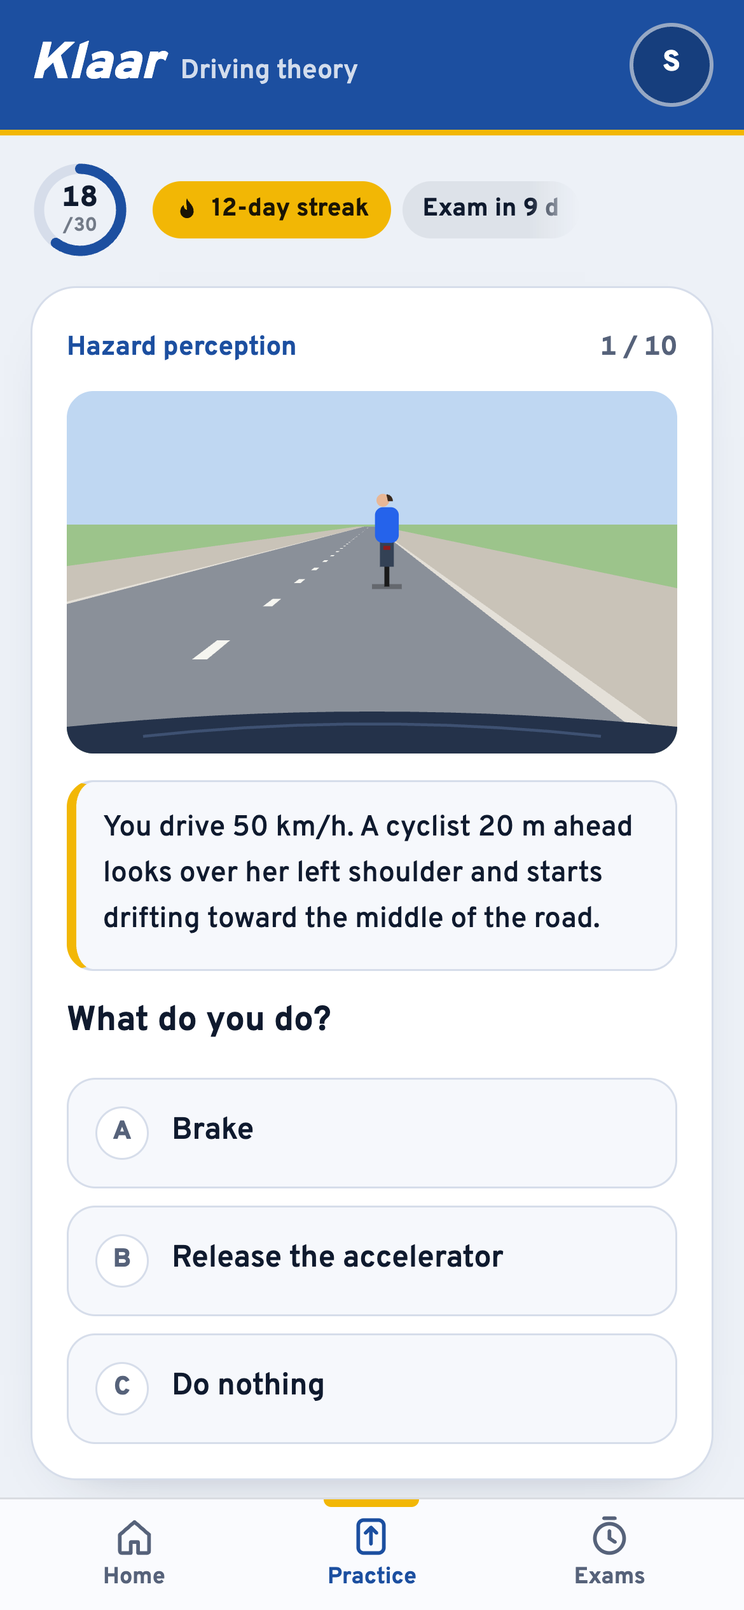
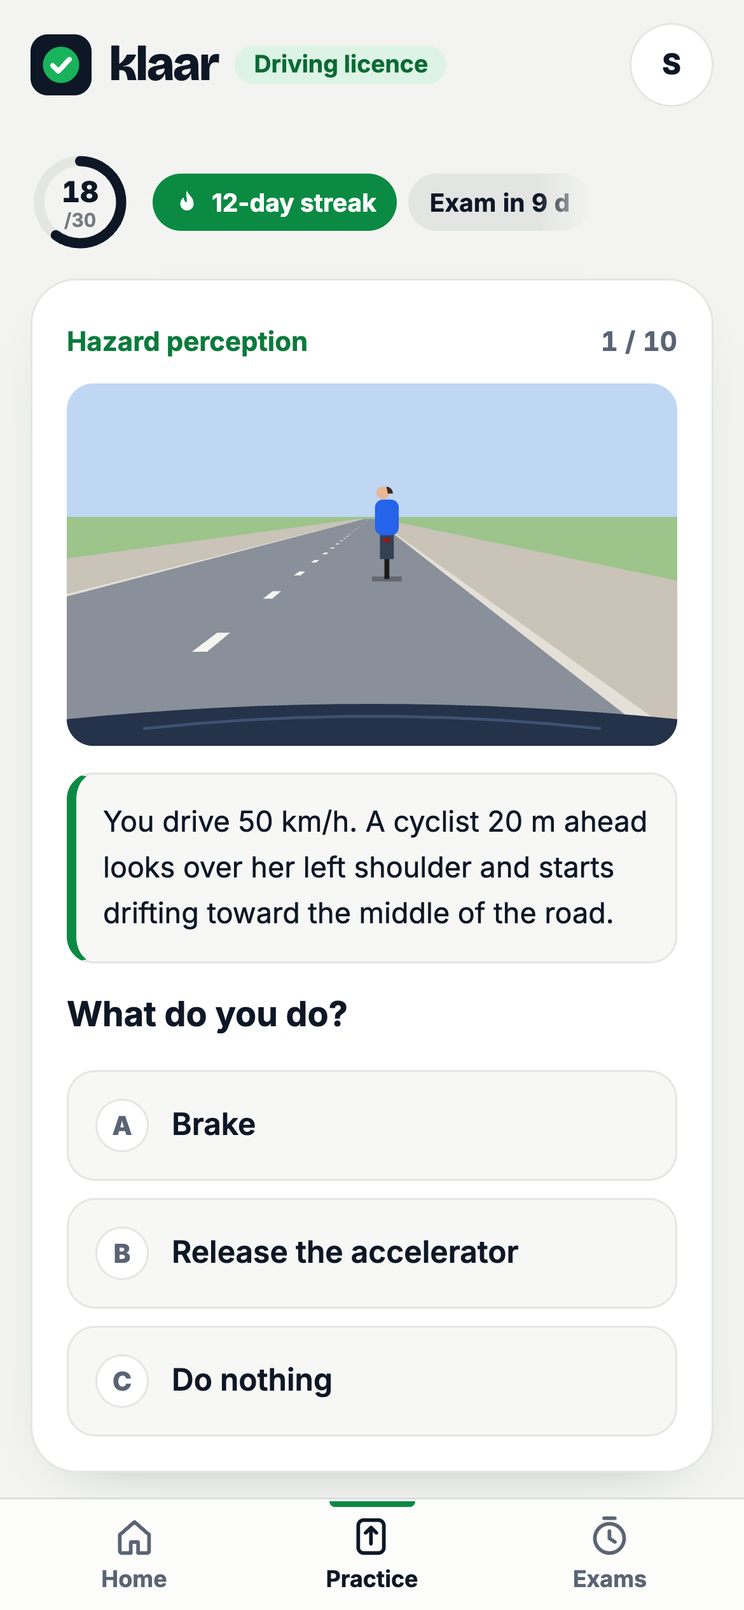
Website and marketing kit show the new Green light app
- New screenshots of the rebuilt app: driving Home, topic grid, question and explanation, hazard, mock exams, licence plan, inburgering Home, exam stamps, official route
- Landing page: real Home in the hero, new "Your road to a licence" section, inburgering FAQ describes the countdown and stamps
- make_assets.js follows the new screens, blocks the news card and always shows a wrong answer for the explanation shot
- Social pictures rebuilt with the new screens; messaging.md describes the licence plan and inburgering screens

diff --git a/welcome/index.html b/welcome/index.html
@@ -23,7 +23,7 @@
 *{box-sizing:border-box}
 body{margin:0;background:var(--ground);color:var(--fg);font:17px/1.55 'Inter',system-ui,-apple-system,'Segoe UI',Roboto,sans-serif;-webkit-font-smoothing:antialiased}
 a{color:inherit}
-h1,h2,.wm,.stat b,.ring-num,.ring-days b{font-family:'Bricolage Grotesque','Inter',system-ui,sans-serif}
+h1,h2,.wm,.stat b{font-family:'Bricolage Grotesque','Inter',system-ui,sans-serif}
 .wrap{max-width:1040px;margin:0 auto;padding:0 20px}
 header{background:var(--ink);color:#fff}
 .bar{display:flex;justify-content:space-between;align-items:center;padding:16px 0;gap:12px}
@@ -31,7 +31,7 @@ header{background:var(--ink);color:#fff}
 .brand svg{flex:none}
 .wm{font-weight:800;font-size:30px;letter-spacing:-.03em;line-height:1}
 .bar a.go{font-weight:700;font-size:15px;text-decoration:none;border:1.5px solid rgba(255,255,255,.4);padding:9px 16px;border-radius:999px;white-space:nowrap}
-.hero{display:grid;grid-template-columns:1.15fr .85fr;gap:40px;align-items:center;padding:52px 0 64px}
+.hero{display:grid;grid-template-columns:1.15fr .85fr;gap:40px;align-items:center;padding:52px 0 0}
 .chip{display:inline-flex;align-items:center;gap:8px;font-size:14.5px;font-weight:700;background:rgba(25,179,92,.16);color:#9BE3B8;padding:6px 13px 6px 10px;border-radius:999px;margin:0 0 18px}
 .chip i{width:10px;height:10px;border-radius:50%;background:var(--green);box-shadow:0 0 0 4px rgba(25,179,92,.25)}
 h1{font-size:clamp(40px,6.4vw,66px);line-height:1.02;letter-spacing:-.035em;font-weight:800;margin:0 0 20px;text-wrap:balance}
@@ -39,20 +39,8 @@ h1 em{font-style:normal;color:var(--green)}
 .lead{font-size:19px;color:rgba(255,255,255,.82);max-width:32em;margin:0 0 28px}
 .cta{display:inline-block;background:var(--go);color:#fff;font-weight:700;font-size:19px;text-decoration:none;padding:16px 32px;border-radius:16px;box-shadow:0 10px 24px rgba(4,40,20,.28)}
 .small{font-size:14.5px;color:rgba(255,255,255,.7);margin:14px 0 0}
-.ringcard{background:#fff;color:#0E1726;border-radius:28px;padding:24px;max-width:340px;width:100%;margin:0 auto;box-shadow:0 30px 60px rgba(0,0,0,.35)}
-.ringrow{display:flex;align-items:center;gap:20px}
-.ring{position:relative;width:132px;height:132px;flex:none}
-.ring svg{transform:rotate(-90deg);display:block}
-.ring .arc{transition:stroke .5s,stroke-dashoffset 1s cubic-bezier(.2,.9,.25,1)}
-.ring-in{position:absolute;inset:0;display:flex;flex-direction:column;align-items:center;justify-content:center}
-.ring-num{font-weight:800;font-size:36px;letter-spacing:-.03em;line-height:1;font-variant-numeric:tabular-nums}
-.ring-num small{font-size:19px}
-.ring-in .lbl{font-size:12.5px;font-weight:600;color:#5B6474;margin-top:2px}
-.pill{display:inline-block;font-size:13px;font-weight:700;padding:5px 11px;border-radius:99px;transition:background .5s,color .5s}
-.ring-days b{display:block;font-weight:800;font-size:34px;letter-spacing:-.03em;line-height:1;margin-top:10px}
-.ring-days span{display:block;font-size:13.5px;line-height:1.35;font-weight:600;color:#5B6474;margin-top:4px}
-.ringcap{font-size:14px;color:#33404F;border-top:1px solid #E3E6E1;margin:18px 0 0;padding:14px 0 0}
-.stats{display:grid;grid-template-columns:repeat(3,1fr);gap:14px;margin:48px 0 0}
+.hero .phone{margin:0 auto -90px;height:auto;border-color:#1E2A3C;box-shadow:0 30px 60px rgba(0,0,0,.35)}
+.stats{display:grid;grid-template-columns:repeat(3,1fr);gap:14px;margin:130px 0 0}
 .stat{background:var(--card);border:1px solid var(--line);border-radius:22px;padding:20px}
 .stat b{display:block;font-size:38px;font-weight:800;letter-spacing:-.03em;line-height:1.1}
 .stat span{color:var(--muted);font-size:15px}
@@ -61,6 +49,7 @@ section{padding:72px 0 0}
 .feat{display:grid;grid-template-columns:1fr 1fr;gap:48px;align-items:center}
 .feat.flip .txt{order:2}
 .feat p{color:var(--fg2);margin:0 0 12px;max-width:30em}
+.feat p.note{font-size:14.5px;color:var(--muted)}
 .phone{width:min(300px,78vw);border:9px solid var(--fg);border-radius:42px;overflow:hidden;background:var(--fg);box-shadow:0 20px 44px rgba(5,12,30,.18);margin:0 auto;line-height:0;height:520px}
 .phone img{width:100%;height:auto;display:block}
 .phone img.low{height:100%;object-fit:cover;object-position:bottom}
@@ -80,16 +69,13 @@ details p{color:var(--fg2);margin:10px 0 0}
 .end p{color:rgba(255,255,255,.75);margin:0 0 26px}
 footer{color:var(--muted);font-size:14px;padding:36px 20px 48px;text-align:center}
 @media (max-width:760px){
-  .hero{grid-template-columns:1fr;padding:32px 0 48px;gap:36px}
+  .hero{grid-template-columns:1fr;padding:32px 0 0;gap:36px}
   .stats,.steps{grid-template-columns:1fr}
-  .stats{margin-top:32px}
   .feat{grid-template-columns:1fr;gap:28px}.feat.flip .txt{order:0}
   .phone{height:440px}
   section{padding-top:56px}
   .wm{font-size:27px}
 }
-@media (max-width:360px){.ringrow{flex-direction:column;align-items:flex-start}}
-@media (prefers-reduced-motion:reduce){.ring .arc,.pill{transition:none}}
 </style>
 </head>
 <body>
@@ -107,22 +93,7 @@ footer{color:var(--muted);font-size:14px;padding:36px 20px 48px;text-align:cente
         <a class="cta" href="../">Start practising</a>
         <p class="small">Free. No account. Works offline once it is on your phone.</p>
       </div>
-      <div class="ringcard" aria-label="Example: a readiness ring that goes from red to amber to green">
-        <div class="ringrow">
-          <div class="ring">
-            <svg width="132" height="132" viewBox="0 0 140 140" aria-hidden="true">
-              <circle cx="70" cy="70" r="58" fill="#fff" stroke="#EDEFEB" stroke-width="14"/>
-              <circle class="arc" id="arc" cx="70" cy="70" r="58" fill="none" stroke="#19B35C" stroke-width="14" stroke-linecap="round" stroke-dasharray="364.4" stroke-dashoffset="32.8"/>
-            </svg>
-            <div class="ring-in"><span class="ring-num"><span id="pct">91</span><small>%</small></span><span class="lbl">ready</span></div>
-          </div>
-          <div>
-            <span class="pill" id="pill" style="background:#DDF3E5;color:#0A6B34">Klaar</span>
-            <div class="ring-days"><b id="days">9</b><span>days to your theory exam</span></div>
-          </div>
-        </div>
-        <p class="ringcap">Red means not yet. Amber means getting close. Green means you are ready for the exam.</p>
-      </div>
+      <div class="phone"><img src="img/1-plan.jpg" width="600" height="1298" alt="Klaar Home: 78% ready on a ring that is amber, 9 days to the theory exam, the route to a licence and the one thing to do next"></div>
     </div>
   </div>
 </header>
@@ -137,13 +108,23 @@ footer{color:var(--muted);font-size:14px;padding:36px 20px 48px;text-align:cente
   <section class="feat">
     <div class="txt">
       <h2>A plan, not a pile of questions</h2>
-      <p>Set your exam date. Klaar shows how ready you are, how many questions a day gets you there, and the one thing to do next.</p>
-      <p>Your weakest topics come first. Questions you get wrong come back until you get them right.</p>
+      <p>Set your exam date. Klaar shows how ready you are on a ring that goes from red to amber to green, and the one thing to do next.</p>
+      <p>All 16 topics sit in one colour grid, weakest first. Tap one to practise it or read its lesson. Questions you get wrong come back until you get them right.</p>
     </div>
-    <div class="phone"><img src="img/2-topics.jpg" width="600" height="1298" loading="lazy" alt="Your topics, weakest first, with a lesson for each"></div>
+    <div class="phone"><img src="img/2-topics.jpg" width="600" height="1298" loading="lazy" alt="Topics in a colour grid, with the Priority card open: 70% right, practise 10 questions"></div>
   </section>
 
   <section class="feat flip">
+    <div class="txt">
+      <h2>Your road to a licence</h2>
+      <p>Pick when you want your licence. Klaar tells you honestly if that is realistic, and puts a date on every step: theory exam, lessons, practical exam, licence.</p>
+      <p>Already have a licence from another country? Klaar first tells you if you can usually swap it instead.</p>
+      <p class="note">Klaar is an independent practice app. You book your exams and apply on mijn.cbr.nl, cbr.nl and rdw.nl, and Klaar links you there.</p>
+    </div>
+    <div class="phone"><img src="img/7-licence-plan.jpg" width="600" height="1298" loading="lazy" alt="Your licence plan: within 6 months is realistic, with dates for the theory exam, lessons, practical exam and licence"></div>
+  </section>
+
+  <section class="feat">
     <div class="txt">
       <h2>See the situation</h2>
       <p>Who goes first at this junction? Klaar draws it from above: your car, the other road users, and where each one is going.</p>
@@ -152,7 +133,7 @@ footer{color:var(--muted);font-size:14px;padding:36px 20px 48px;text-align:cente
     <div class="phone"><img src="img/3-question.jpg" width="600" height="1298" loading="lazy" alt="A priority question with a junction drawn from above"></div>
   </section>
 
-  <section class="feat">
+  <section class="feat flip">
     <div class="txt">
       <h2>Know the rule and the reason</h2>
       <p>Every answer comes with a short explanation. Most link to the exact page of the government's English traffic rules booklet on government.nl, so you can check it yourself.</p>
@@ -161,7 +142,7 @@ footer{color:var(--muted);font-size:14px;padding:36px 20px 48px;text-align:cente
     <div class="phone"><img class="low" src="img/4-explained.jpg" width="600" height="1298" loading="lazy" alt="A wrong answer with the right one, the rule and a link to the source"></div>
   </section>
 
-  <section class="feat flip">
+  <section class="feat">
     <div class="txt">
       <h2>Mock exams in the real format</h2>
       <p>50 questions, 30 minutes, 44 right to pass, and no feedback until you hand in. The same format as the CBR theory exam.</p>
@@ -185,7 +166,7 @@ footer{color:var(--muted);font-size:14px;padding:36px 20px 48px;text-align:cente
     <details><summary>What does it cost?</summary><p>It is free right now. You do not need an account or a card.</p></details>
     <details><summary>Can I take the real theory exam in English?</summary><p>Yes. The CBR offers the car theory exam in English. Check cbr.nl for the current price and how to book.</p></details>
     <details><summary>Is Klaar enough to pass?</summary><p>Practise until you pass the full mock exam three times in a row. We also suggest the CBR's own practice material on cbr.nl before the real exam. No app can promise you a pass.</p></details>
-    <details><summary>I also need to do my inburgering. Can Klaar help?</summary><p>Yes, as an add-on. Once you have started on driving, you can add practice for the KNM and Dutch A2 exams from Home or your profile. You still book and apply on the government's own sites.</p></details>
+    <details><summary>I also need to do my inburgering. Can Klaar help?</summary><p>Yes, as an add-on. Add it from Home or your profile and you get practice for the KNM and Dutch A2 exams, a countdown to when you can apply to stay or become Dutch, and a stamp for each exam you pass. You still book exams and apply on inburgeren.nl and ind.nl.</p></details>
     <details><summary>Where is my progress stored?</summary><p>On your phone only. Nothing personal is sent anywhere. You can save a backup file from your profile.</p></details>
     <details><summary>Does it work on iPhone and Android?</summary><p>Yes, on both, in any modern browser.</p></details>
   </section>
@@ -199,24 +180,5 @@ footer{color:var(--muted);font-size:14px;padding:36px 20px 48px;text-align:cente
 </main>
 
 <footer class="wrap">Klaar is an independent practice app. It is not affiliated with the CBR. Practice questions are original and not exam material. <a href="../privacy/">Privacy</a></footer>
-<script>
-(function(){
-  if (!window.matchMedia || matchMedia('(prefers-reduced-motion: reduce)').matches) return;
-  var steps = [
-    {p:38, c:'#E5533D', t:'Not yet', bg:'#FCE3DE', fg:'#9F2A17', d:41},
-    {p:76, c:'#F2A51A', t:'Getting close', bg:'#FDF0D3', fg:'#7A4E00', d:23},
-    {p:91, c:'#19B35C', t:'Klaar', bg:'#DDF3E5', fg:'#0A6B34', d:9}
-  ];
-  var arc = document.getElementById('arc'), pct = document.getElementById('pct'), pill = document.getElementById('pill'), days = document.getElementById('days');
-  function show(s){
-    arc.setAttribute('stroke', s.c); arc.style.strokeDashoffset = (364.4 * (1 - s.p / 100)).toFixed(1);
-    pct.textContent = s.p; pill.textContent = s.t; pill.style.background = s.bg; pill.style.color = s.fg; days.textContent = s.d;
-  }
-  arc.style.transition = pill.style.transition = 'none'; show(steps[0]); arc.getBoundingClientRect();
-  arc.style.transition = pill.style.transition = '';
-  setTimeout(function(){ show(steps[1]); }, 1300);
-  setTimeout(function(){ show(steps[2]); }, 2700);
-})();
-</script>
 </body>
 </html>

diff --git a/marketing/make_assets.js b/marketing/make_assets.js
@@ -44,28 +44,65 @@ function seed(){
   localStorage.setItem("klaarInstallSeen", "1"); localStorage.setItem("klaarInstallHint", "no"); localStorage.setItem("klaarStats", "off");
 }
 
+/* The same learner, also doing inburgering: moved here a little over 2 years ago for work, wants to become Dutch. */
+function seedCivic(){
+  var S = JSON.parse(localStorage.getItem("klaarStateV1")), day = 86400000, now = Date.now();
+  function pad(n){ return (n < 10 ? "0" : "") + n; }
+  var a = new Date(now - 800 * day); S.arrived = a.getFullYear() + "-" + pad(a.getMonth() + 1) + "-" + pad(a.getDate());
+  S.track = "civic"; S.prof.goals = ["civic"]; S.prof.civ = {why:"work", goal:"citizen"};
+  var tr = S.t.civic; tr.topics = {"KNM":{a:64, ok:52}, "A2 Lezen":{a:40, ok:33}, "A2 Luisteren":{a:24, ok:15}};
+  tr.ans = 128; tr.ok = 100; tr.xp = 980;
+  tr.mocks = {"knm":[{s:36, n:40, p:true, at:now - 20 * day}], "a2-lezen":[{s:22, n:25, p:true, at:now - 3 * day}], "a2-luisteren":[{s:15, n:25, p:false, at:now - day}]};
+  S.plan = Object.assign({}, S.plan, {"c-knm":true});
+  localStorage.setItem("klaarStateV1", JSON.stringify(S));
+}
+
 async function appShots(browser){
   const ctx = await browser.newContext({ viewport: {width:390, height:844}, deviceScaleFactor: 3, isMobile: true, hasTouch: true, userAgent: UA, colorScheme: 'light', serviceWorkers: 'block' });
+  /* home-screen layout, and no news card (news.json changes; the pictures should not) */
   await ctx.addInitScript(() => { Object.defineProperty(navigator, 'standalone', {get: () => true}); });
+  await ctx.route('**/news.json*', r => r.fulfill({ status: 200, contentType: 'application/json', body: '{"items":[]}' }));
   const page = await ctx.newPage();
   await page.goto(BASE); await page.waitForTimeout(500);
-  await page.evaluate(seed); await page.reload(); await page.waitForTimeout(900);
+  await page.evaluate(seed); await page.evaluate(() => { var S = JSON.parse(localStorage.getItem("klaarStateV1")); S.prof.lic = {from:"none", by:6, at:Date.now() - 12 * 86400000}; S.onboarded = true; localStorage.setItem("klaarStateV1", JSON.stringify(S)); });
+  await page.reload(); await page.waitForTimeout(2500);
   const shot = async name => { await page.screenshot({ path: path.join(DIRS.shots, name + '.png') }); console.log('screenshot', name); };
   const scrollMain = y => page.evaluate(y => { document.querySelector('main').scrollTop = y; }, y);
+  const home = async () => { await page.keyboard.press('Escape'); await page.waitForTimeout(400); await page.click('.tab[data-view="home"]'); await page.waitForTimeout(500); await scrollMain(0); };
 
-  await page.click('.tab[data-view="home"]'); await page.waitForTimeout(700); await shot('1-plan');
-  await scrollMain(700); await page.waitForTimeout(300); await shot('2-topics');
+  await home(); await page.waitForTimeout(2200); await shot('1-plan');
+  await page.evaluate(() => { var g = document.querySelector('#v-home .tile'), m = document.querySelector('main'); if (g) m.scrollTop += g.getBoundingClientRect().top - 300; });
+  await page.waitForTimeout(400);
+  const tile = await page.$('#v-home [data-tile="Priority"]'); if (tile){ await tile.click(); await page.waitForTimeout(900); }
+  await shot('2-topics');
 
-  /* a question with a picture: open the Priority topic from Home */
-  await scrollMain(0);
-  const openTopic = async name => { await page.click('.tab[data-view="home"]'); await page.waitForTimeout(400);
-    await page.click('#v-home [data-topic="' + name + '"]');
-    await page.waitForTimeout(1200); };
-  await openTopic('Priority'); await scrollMain(0); await shot('3-question');
-  const opt = await page.$('#v-feed .opt'); if (opt){ await opt.click(); await page.waitForTimeout(1100); await page.evaluate(() => { var v = document.querySelector('#v-feed .verdict'), m = document.querySelector('main'); if (v) m.scrollTop += v.getBoundingClientRect().top - 150; }); await page.waitForTimeout(400); await shot('4-explained'); }
-  await openTopic('Hazard perception'); await scrollMain(0); await shot('5-hazard');
+  /* a question with a picture: Priority from its tile */
+  const openTopic = async name => { await home(); await page.click('#v-home [data-tile="' + name + '"]'); await page.waitForTimeout(700);
+    await page.click('[data-act="tsh-go"]'); await page.waitForTimeout(1300); await scrollMain(0); };
+  await openTopic('Priority'); await shot('3-question');
+  /* a wrong answer, so the picture shows the right one and the rule. Options are shuffled: try until one is wrong. */
+  for (let i = 0; i < 8; i++){
+    const opts = await page.$$('#v-feed .opt'); if (!opts.length) break;
+    await opts[opts.length - 1].click(); await page.waitForTimeout(1100);
+    if (await page.$('#v-feed .verdict.no')) break;
+    await page.click('#v-feed [data-act="next"]'); await page.waitForTimeout(1300); await scrollMain(0);
+  }
+  if (await page.$('#v-feed .verdict')){ await page.evaluate(() => { var v = document.querySelector('#v-feed .verdict'), m = document.querySelector('main'); if (v) m.scrollTop += v.getBoundingClientRect().top - 150; }); await page.waitForTimeout(400); await shot('4-explained'); }
+  await openTopic('Hazard perception'); await shot('5-hazard');
 
   await page.click('.tab[data-view="exams"]'); await page.waitForTimeout(700); await shot('6-mock-exams');
+
+  await home(); await page.click('#v-home [data-act="your-plan"]'); await page.waitForTimeout(800);
+  await page.evaluate(() => { var r = document.querySelector('.lp-card:nth-of-type(2)'), m = document.querySelector('main'); if (r) m.scrollTop += r.getBoundingClientRect().top - 110; });
+  await page.waitForTimeout(400); await shot('7-licence-plan');
+
+  await page.evaluate(seedCivic); await page.reload(); await page.waitForTimeout(2500);
+  await home(); await page.waitForTimeout(1500);
+  await page.evaluate(() => { var h = document.querySelector('#v-home .cv-hero'), m = document.querySelector('main'); if (h) m.scrollTop += h.getBoundingClientRect().top - 110; });
+  await page.waitForTimeout(400); await shot('8-inburgering');
+  await page.evaluate(() => { var h = document.querySelector('#v-home .stamps'), m = document.querySelector('main'); if (h) m.scrollTop += h.getBoundingClientRect().top - 200; });
+  await page.waitForTimeout(400); await shot('8b-stamps'); await scrollMain(0);
+  await page.click('#v-home [data-act="civic-route"]'); await page.waitForTimeout(800); await shot('9-route');
   await ctx.close();
 }
 
@@ -121,7 +158,7 @@ function carousel(){
     slide('ink', `${top(1, N)}<h1>Pass the Dutch driving theory exam. <em>In English.</em></h1><p>Made for expats and international students. Klaar turns green when you are ready.</p>${rings()}`),
     slide('ground', `${top(2, N)}<h1>A plan that counts back from <em>your exam date.</em></h1><p>It tells you how ready you are and what to do today.</p><div class="phone" style="top:640px"><img src="${b64('1-plan')}"></div>`),
     slide('ink', `${top(3, N)}<h1>See the situation, <em>not a wall of text.</em></h1><p>Junctions, lanes and roundabouts drawn from above, with who goes where.</p><div class="phone" style="top:640px"><img src="${b64('3-question')}"></div>`),
-    slide('ground', `${top(4, N)}<h1>Wrong answer? You get <em>the rule and the reason.</em></h1><p>Most answers link to the page in the government's English rulebook.</p><div class="phone" style="top:640px"><img src="${b64('4-explained')}" style="margin-top:-540px"></div>`),
+    slide('ground', `${top(4, N)}<h1>Wrong answer? You get <em>the rule and the reason.</em></h1><p>Most answers link to the page in the government's English rulebook.</p><div class="phone" style="top:640px"><img src="${b64('4-explained')}" style="margin-top:-400px"></div>`),
     slide('ink', `${top(5, N)}<h1>Mock exams in <em>the real CBR format.</em></h1><p>50 questions, 30 minutes, 44 to pass. No feedback until you hand in.</p><div class="phone" style="top:660px"><img src="${b64('6-mock-exams')}"></div>`),
     slide('ink', `${top(6, N)}<div style="display:flex;gap:56px;align-items:center;margin-top:84px"><div style="flex:none">${light(380)}</div><h1 style="font-size:100px;margin:0">When the light is green, you are <em>klaar.</em></h1></div><div class="list" style="margin-top:72px;gap:30px"><div><b>1</b>Open the link on your phone</div><div><b>2</b>Tell it your exam date</div><div><b>3</b>Practise until your light is green</div></div><div class="pill" style="margin-top:64px">${SITE}</div><div class="fine">Free, no account, works offline. Original practice questions, not CBR exam material.</div>`)
   ];
@@ -147,7 +184,7 @@ async function webCopies(browser){
   /* small JPGs for the landing page, 2x a 300px-wide phone */
   const ctx = await browser.newContext({ viewport: {width:600, height:1298}, deviceScaleFactor: 1 });
   const page = await ctx.newPage();
-  for (const f of ['1-plan', '2-topics', '3-question', '4-explained', '6-mock-exams']){
+  for (const f of ['1-plan', '2-topics', '3-question', '4-explained', '6-mock-exams', '7-licence-plan']){
     await page.setContent(`<body style="margin:0"><img src="${b64(f)}" style="display:block;width:600px">`); await page.waitForTimeout(150);
     await page.screenshot({ path: path.join(DIRS.web, f + '.jpg'), type: 'jpeg', quality: 82 });
   }

diff --git a/sw.js b/sw.js
@@ -1,5 +1,5 @@
 // Klaar offline cache. release.py stamps VERSION; a new VERSION makes phones download everything fresh.
-const VERSION = "01bb55b882";
+const VERSION = "c99789085d";
 const CACHE = "klaar-" + VERSION, FONTS = "klaar-fonts";
 const SHELL = ["./", "./index.html", "./css/app.css", "./js/i18n-data.js", "./js/i18n.js", "./js/content.js", "./js/audio.js", "./js/lessons.js", "./js/view.js", "./js/map.js", "./js/glossary.js", "./js/stats.js", "./js/app.js", "./js/shell.js", "./js/setup.js", "./js/onboard.js", "./manifest.webmanifest", "./icons/icon-180.png", "./icons/icon-192.png", "./icons/icon-512.png", "./icons/icon-maskable-512.png", "./fonts/bricolage-grotesque-latin.woff2", "./fonts/inter-latin.woff2"];
 self.addEventListener("install", e => {

diff --git a/js/shell.js b/js/shell.js
@@ -1,5 +1,5 @@
 /* Screen-tall layout for the home-screen app, update notice, service worker. */
-var KLAAR_VERSION = "01bb55b882", KLAAR_NEWS = "Clearer advice for EU citizens and students in your inburgering plan";
+var KLAAR_VERSION = "c99789085d", KLAAR_NEWS = "New app pictures on the Klaar website, and a section on your licence plan";
 (function(){
   /* iOS home-screen apps sometimes get a layout viewport shorter than the screen, which leaves a strip under the tab bar.
      Measure it and push the bottom chrome down into that strip. */

diff --git a/marketing/messaging.md b/marketing/messaging.md
@@ -22,7 +22,8 @@ Expats and international students in the Netherlands who need a Dutch car licenc
 ## Why believe it (only say what is true today)
 | Claim | Proof in the app |
 |---|---|
-| A plan that follows your exam date | Home shows days left, % ready, daily pace and one next step |
+| A plan that follows your exam date | Home shows the readiness ring, days left, today's count, the route to a licence and one next step |
+| Your road to a licence | "Your plan" asks when you want your licence, says if that is very tight, realistic or comfortable, dates every step and links to mijn.cbr.nl, cbr.nl, government.nl and rdw.nl. It checks first if a foreign licence can be swapped |
 | You know when you are ready | The readiness ring goes red, amber, green |
 | You see the situation | Junctions drawn from above, hazards from the driver's seat |
 | You learn the rule and the reason | Every answer explains why. Most link to the page of the English RVV booklet on government.nl |
@@ -31,6 +32,8 @@ Expats and international students in the Netherlands who need a Dutch car licenc
 
 ## Inburgering
 An add-on, not the headline. Mention it once per page or post at most, near the end: "Also doing your inburgering? Add KNM and Dutch A2 practice from your profile." Marketing stays driving-first.
+
+What the inburgering side shows (for when you do mention it): a Delft blue countdown to the day you can apply to become Dutch or stay for good (or the days until you move), a stamp for each exam that lands when you pass its practice exam, a checklist for your situation, and "How to apply, step by step" with links to inburgeren.nl and ind.nl. Always add that Klaar is an independent practice app, not DUO or the IND. Pictures: `screenshots/8-inburgering.png`, `8b-stamps.png`, `9-route.png`.
 
 ## Words we use
 - "driving theory exam", "CBR theory exam", "practice app", "mock exam", "your exam date", "ready", "green light"

diff --git a/marketing/README.md b/marketing/README.md
@@ -4,7 +4,7 @@
 |---|---|
 | `messaging.md` | The "Green light" idea, who Klaar is for, what we may and may not claim, colours and fonts. Start here |
 | `posts.md` | Copy-paste text for Reddit, WhatsApp, LinkedIn, Instagram, a story, a Reel script and two outreach emails |
-| `screenshots/` | Real app screens at iPhone size (1170 x 2532) |
+| `screenshots/` | Real app screens at iPhone size (1170 x 2532): driving Home, topic grid, a junction question and its explanation, hazard question, mock exams, the licence plan, inburgering Home, exam stamps and the official route |
 | `social/` | Instagram and LinkedIn carousel (1080 x 1350, six slides) and a story (1080 x 1920) |
 | `make_assets.js` | Remakes every picture from the live app |
 | `../welcome/` | The landing page (https://yazan-hammad0.github.io/klaar/welcome/) |
